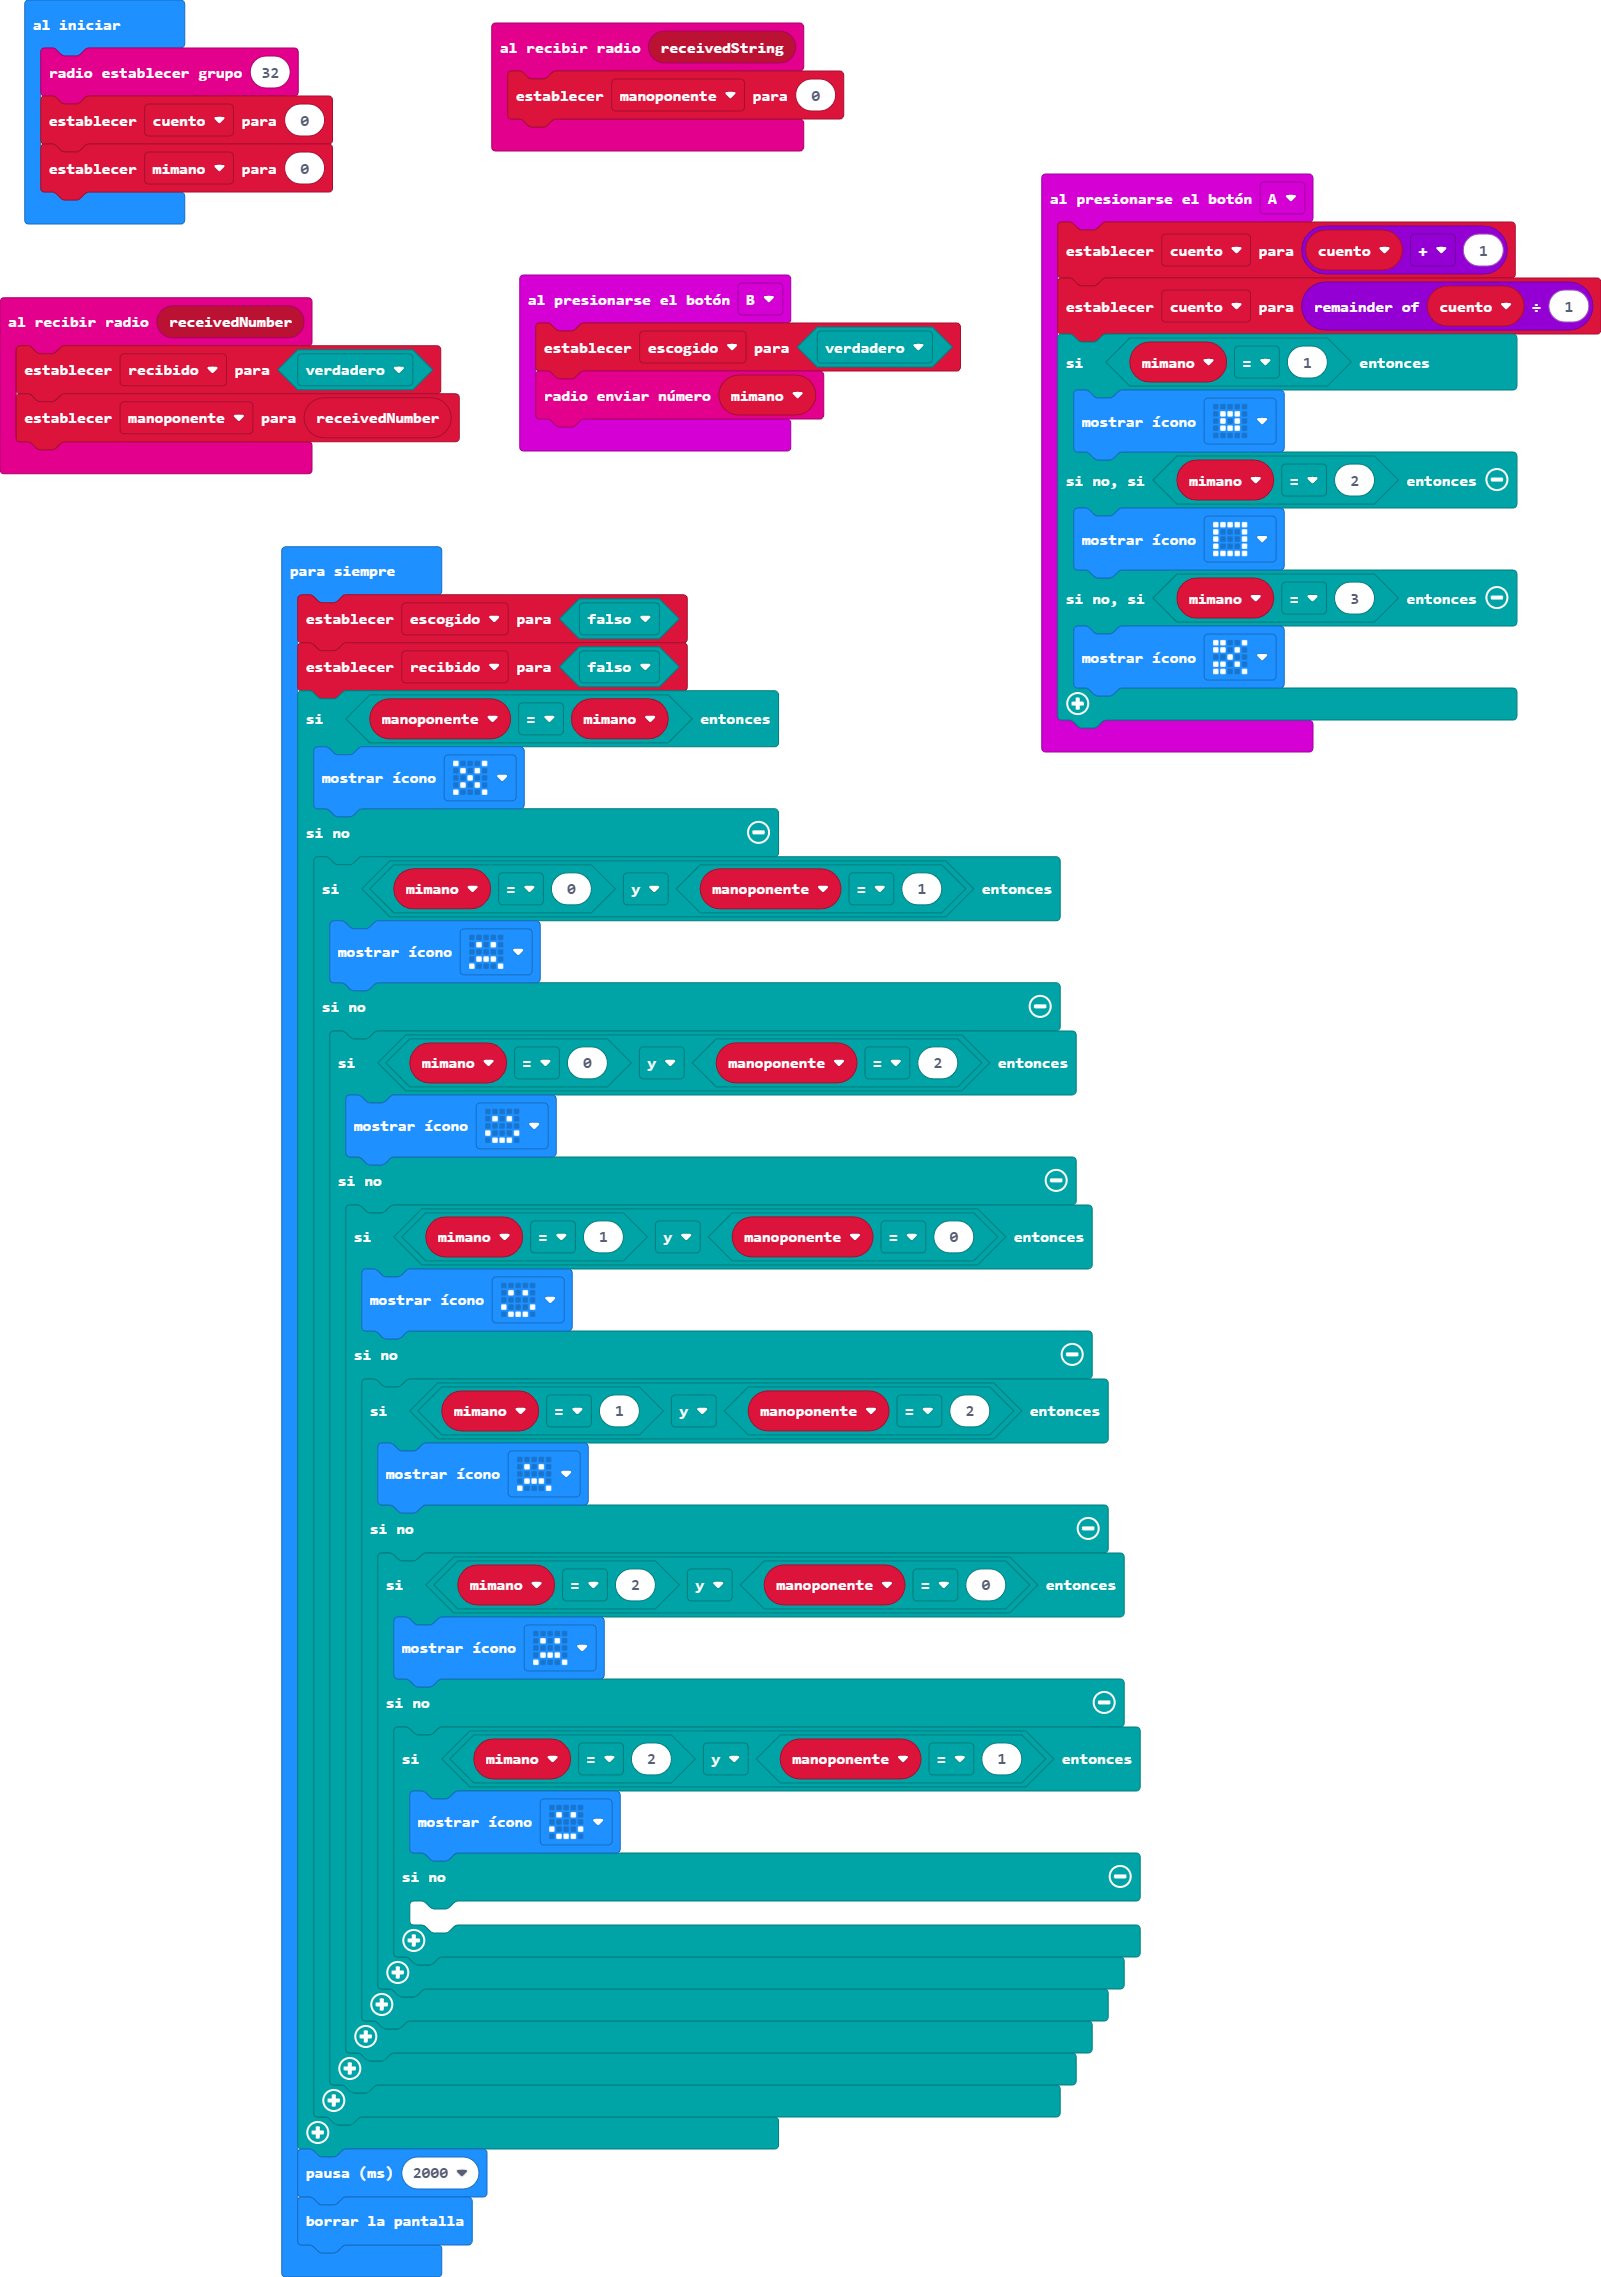
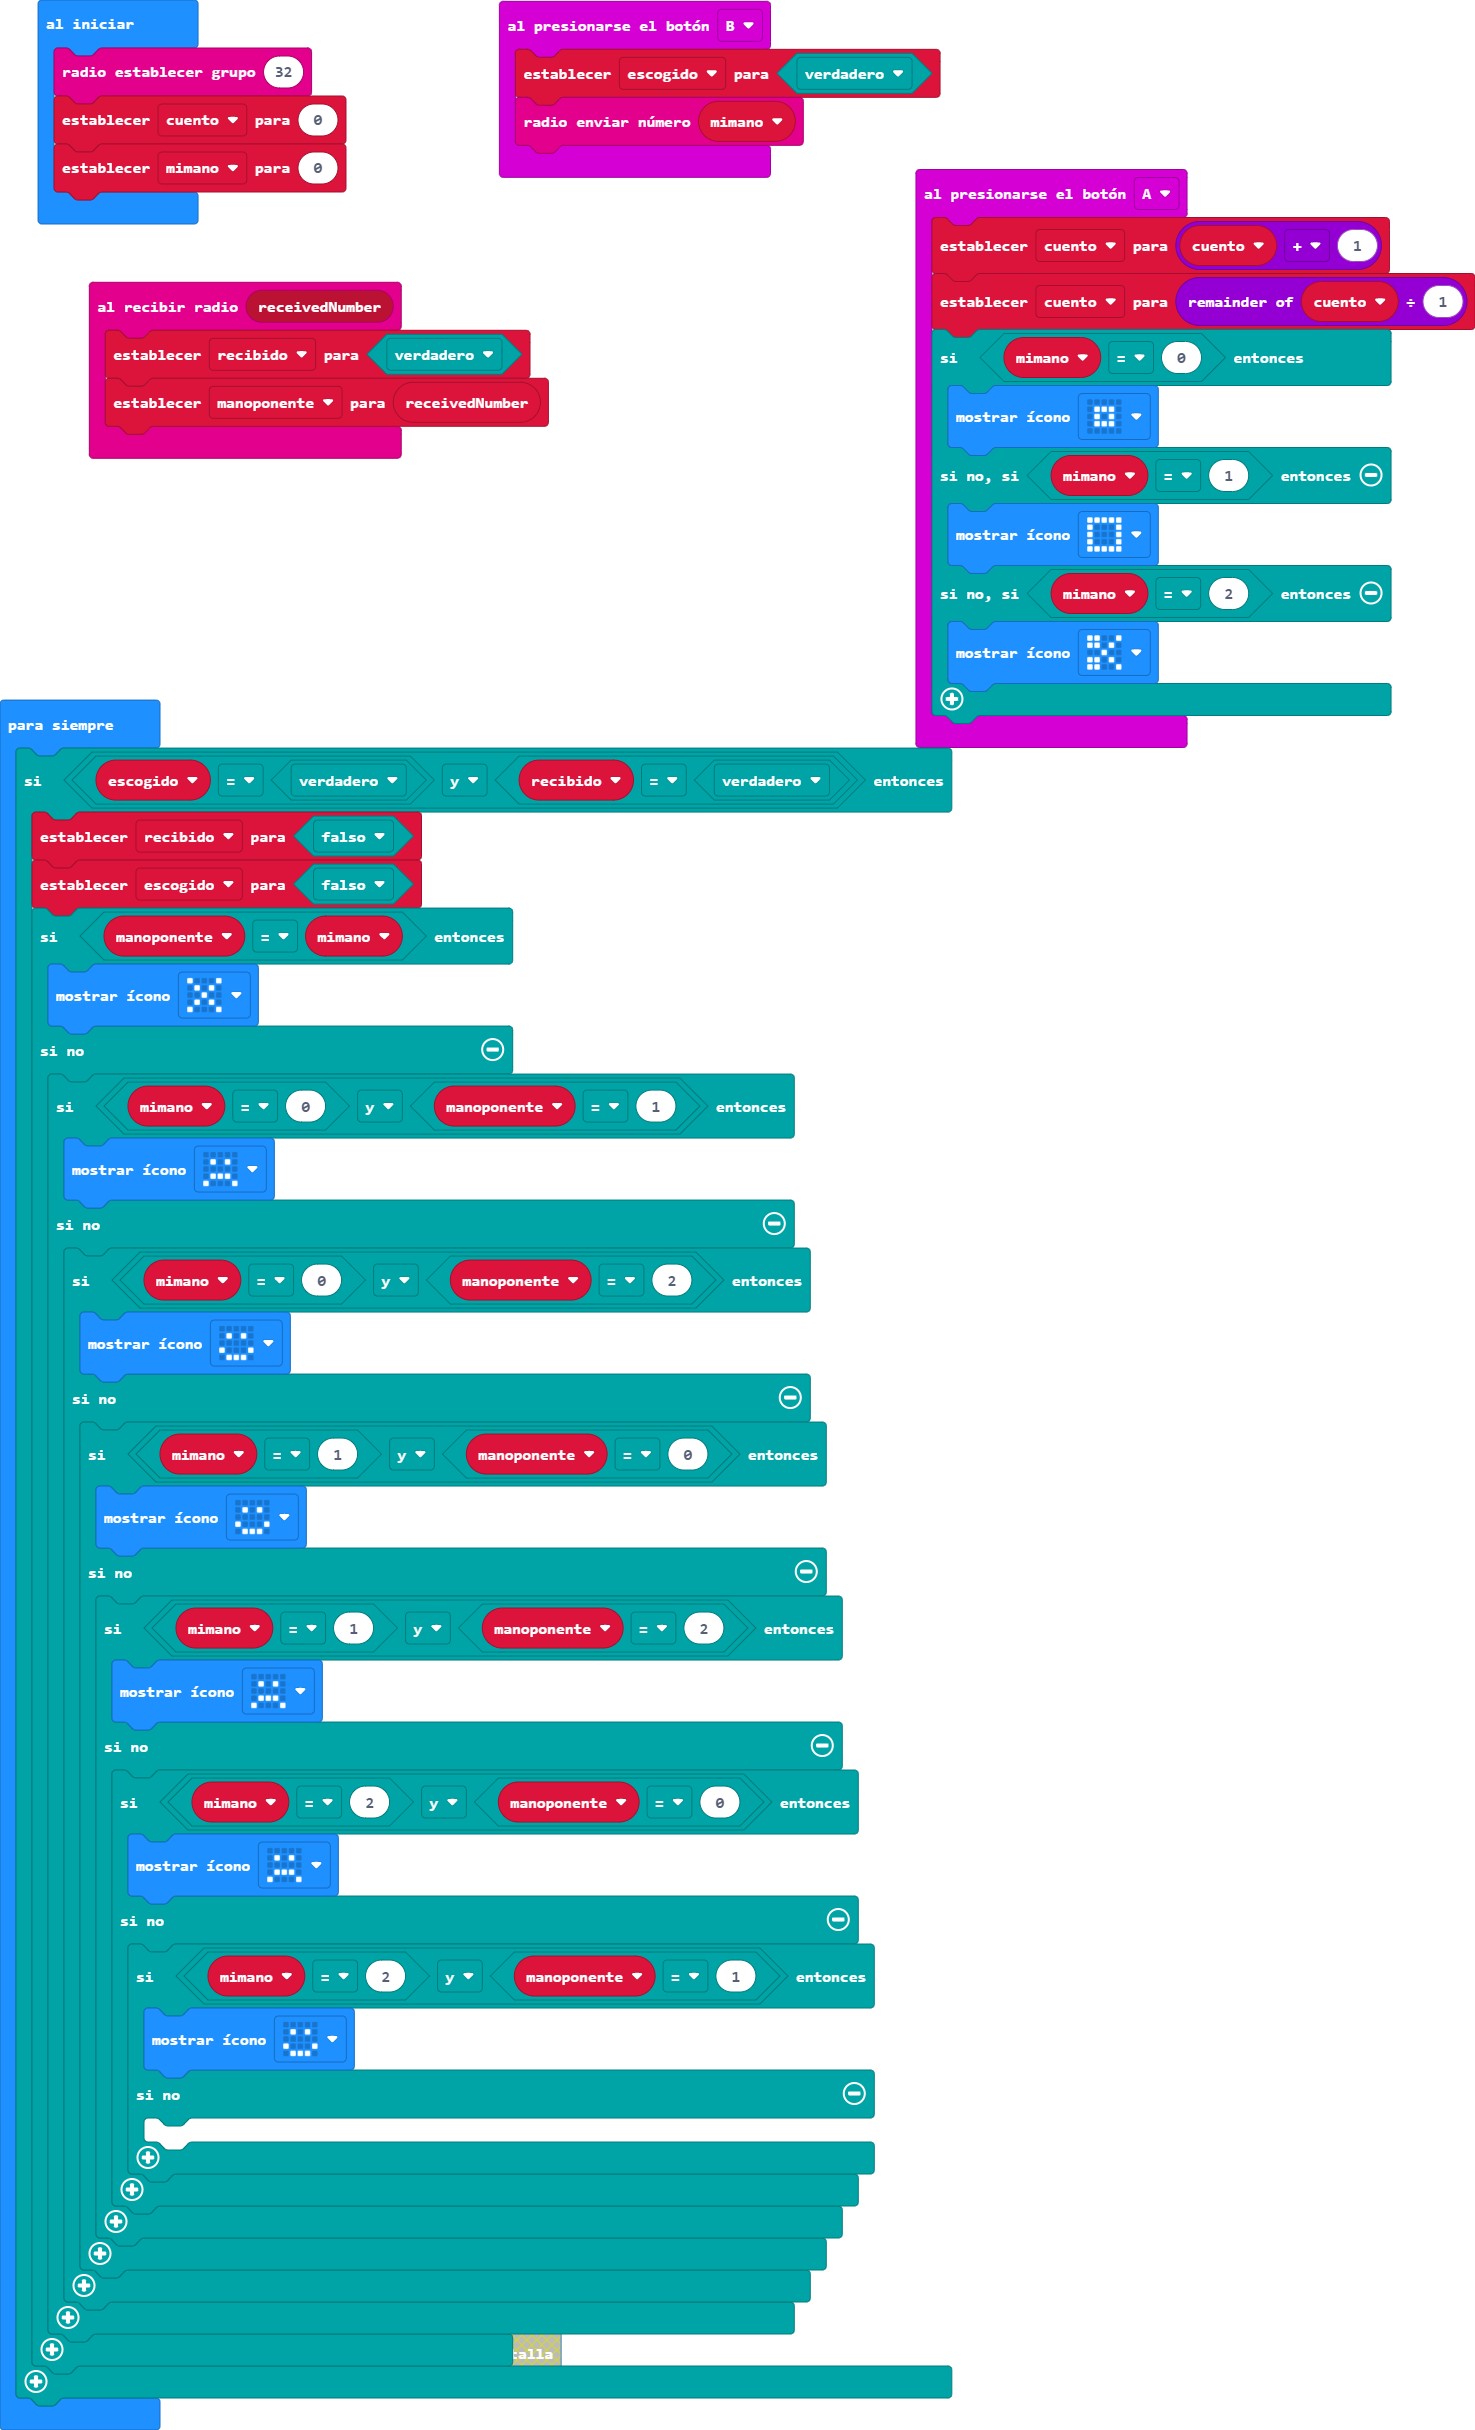
Actualizar main.blocks, main.ts

diff --git a/main.ts b/main.ts
@@ -5,16 +5,13 @@ radio.onReceivedNumber(function (receivedNumber) {
 input.onButtonPressed(Button.A, function () {
     cuento = cuento + 1
     cuento = cuento % 1
-    if (mimano == 1) {
+    if (mimano == 0) {
         basic.showIcon(IconNames.SmallSquare)
-    } else if (mimano == 2) {
+    } else if (mimano == 1) {
         basic.showIcon(IconNames.Square)
-    } else if (mimano == 3) {
+    } else if (mimano == 2) {
         basic.showIcon(IconNames.Scissors)
     }
-})
-radio.onReceivedString(function (receivedString) {
-    manoponente = 0
 })
 input.onButtonPressed(Button.B, function () {
     escogido = true
@@ -29,30 +26,32 @@ radio.setGroup(32)
 cuento = 0
 mimano = 0
 basic.forever(function () {
-    escogido = false
-    recibido = false
-    if (manoponente == mimano) {
-        basic.showIcon(IconNames.No)
-    } else {
-        if (mimano == 0 && manoponente == 1) {
-            basic.showIcon(IconNames.Sad)
+    if (escogido == true && recibido == true) {
+        recibido = false
+        escogido = false
+        if (manoponente == mimano) {
+            basic.showIcon(IconNames.No)
         } else {
-            if (mimano == 0 && manoponente == 2) {
-                basic.showIcon(IconNames.Happy)
+            if (mimano == 0 && manoponente == 1) {
+                basic.showIcon(IconNames.Sad)
             } else {
-                if (mimano == 1 && manoponente == 0) {
+                if (mimano == 0 && manoponente == 2) {
                     basic.showIcon(IconNames.Happy)
                 } else {
-                    if (mimano == 1 && manoponente == 2) {
-                        basic.showIcon(IconNames.Sad)
+                    if (mimano == 1 && manoponente == 0) {
+                        basic.showIcon(IconNames.Happy)
                     } else {
-                        if (mimano == 2 && manoponente == 0) {
+                        if (mimano == 1 && manoponente == 2) {
                             basic.showIcon(IconNames.Sad)
                         } else {
-                            if (mimano == 2 && manoponente == 1) {
-                                basic.showIcon(IconNames.Happy)
+                            if (mimano == 2 && manoponente == 0) {
+                                basic.showIcon(IconNames.Sad)
                             } else {
-                            	
+                                if (mimano == 2 && manoponente == 1) {
+                                    basic.showIcon(IconNames.Happy)
+                                } else {
+                                	
+                                }
                             }
                         }
                     }
@@ -60,6 +59,4 @@ basic.forever(function () {
             }
         }
     }
-    basic.pause(2000)
-    basic.clearScreen()
 })
